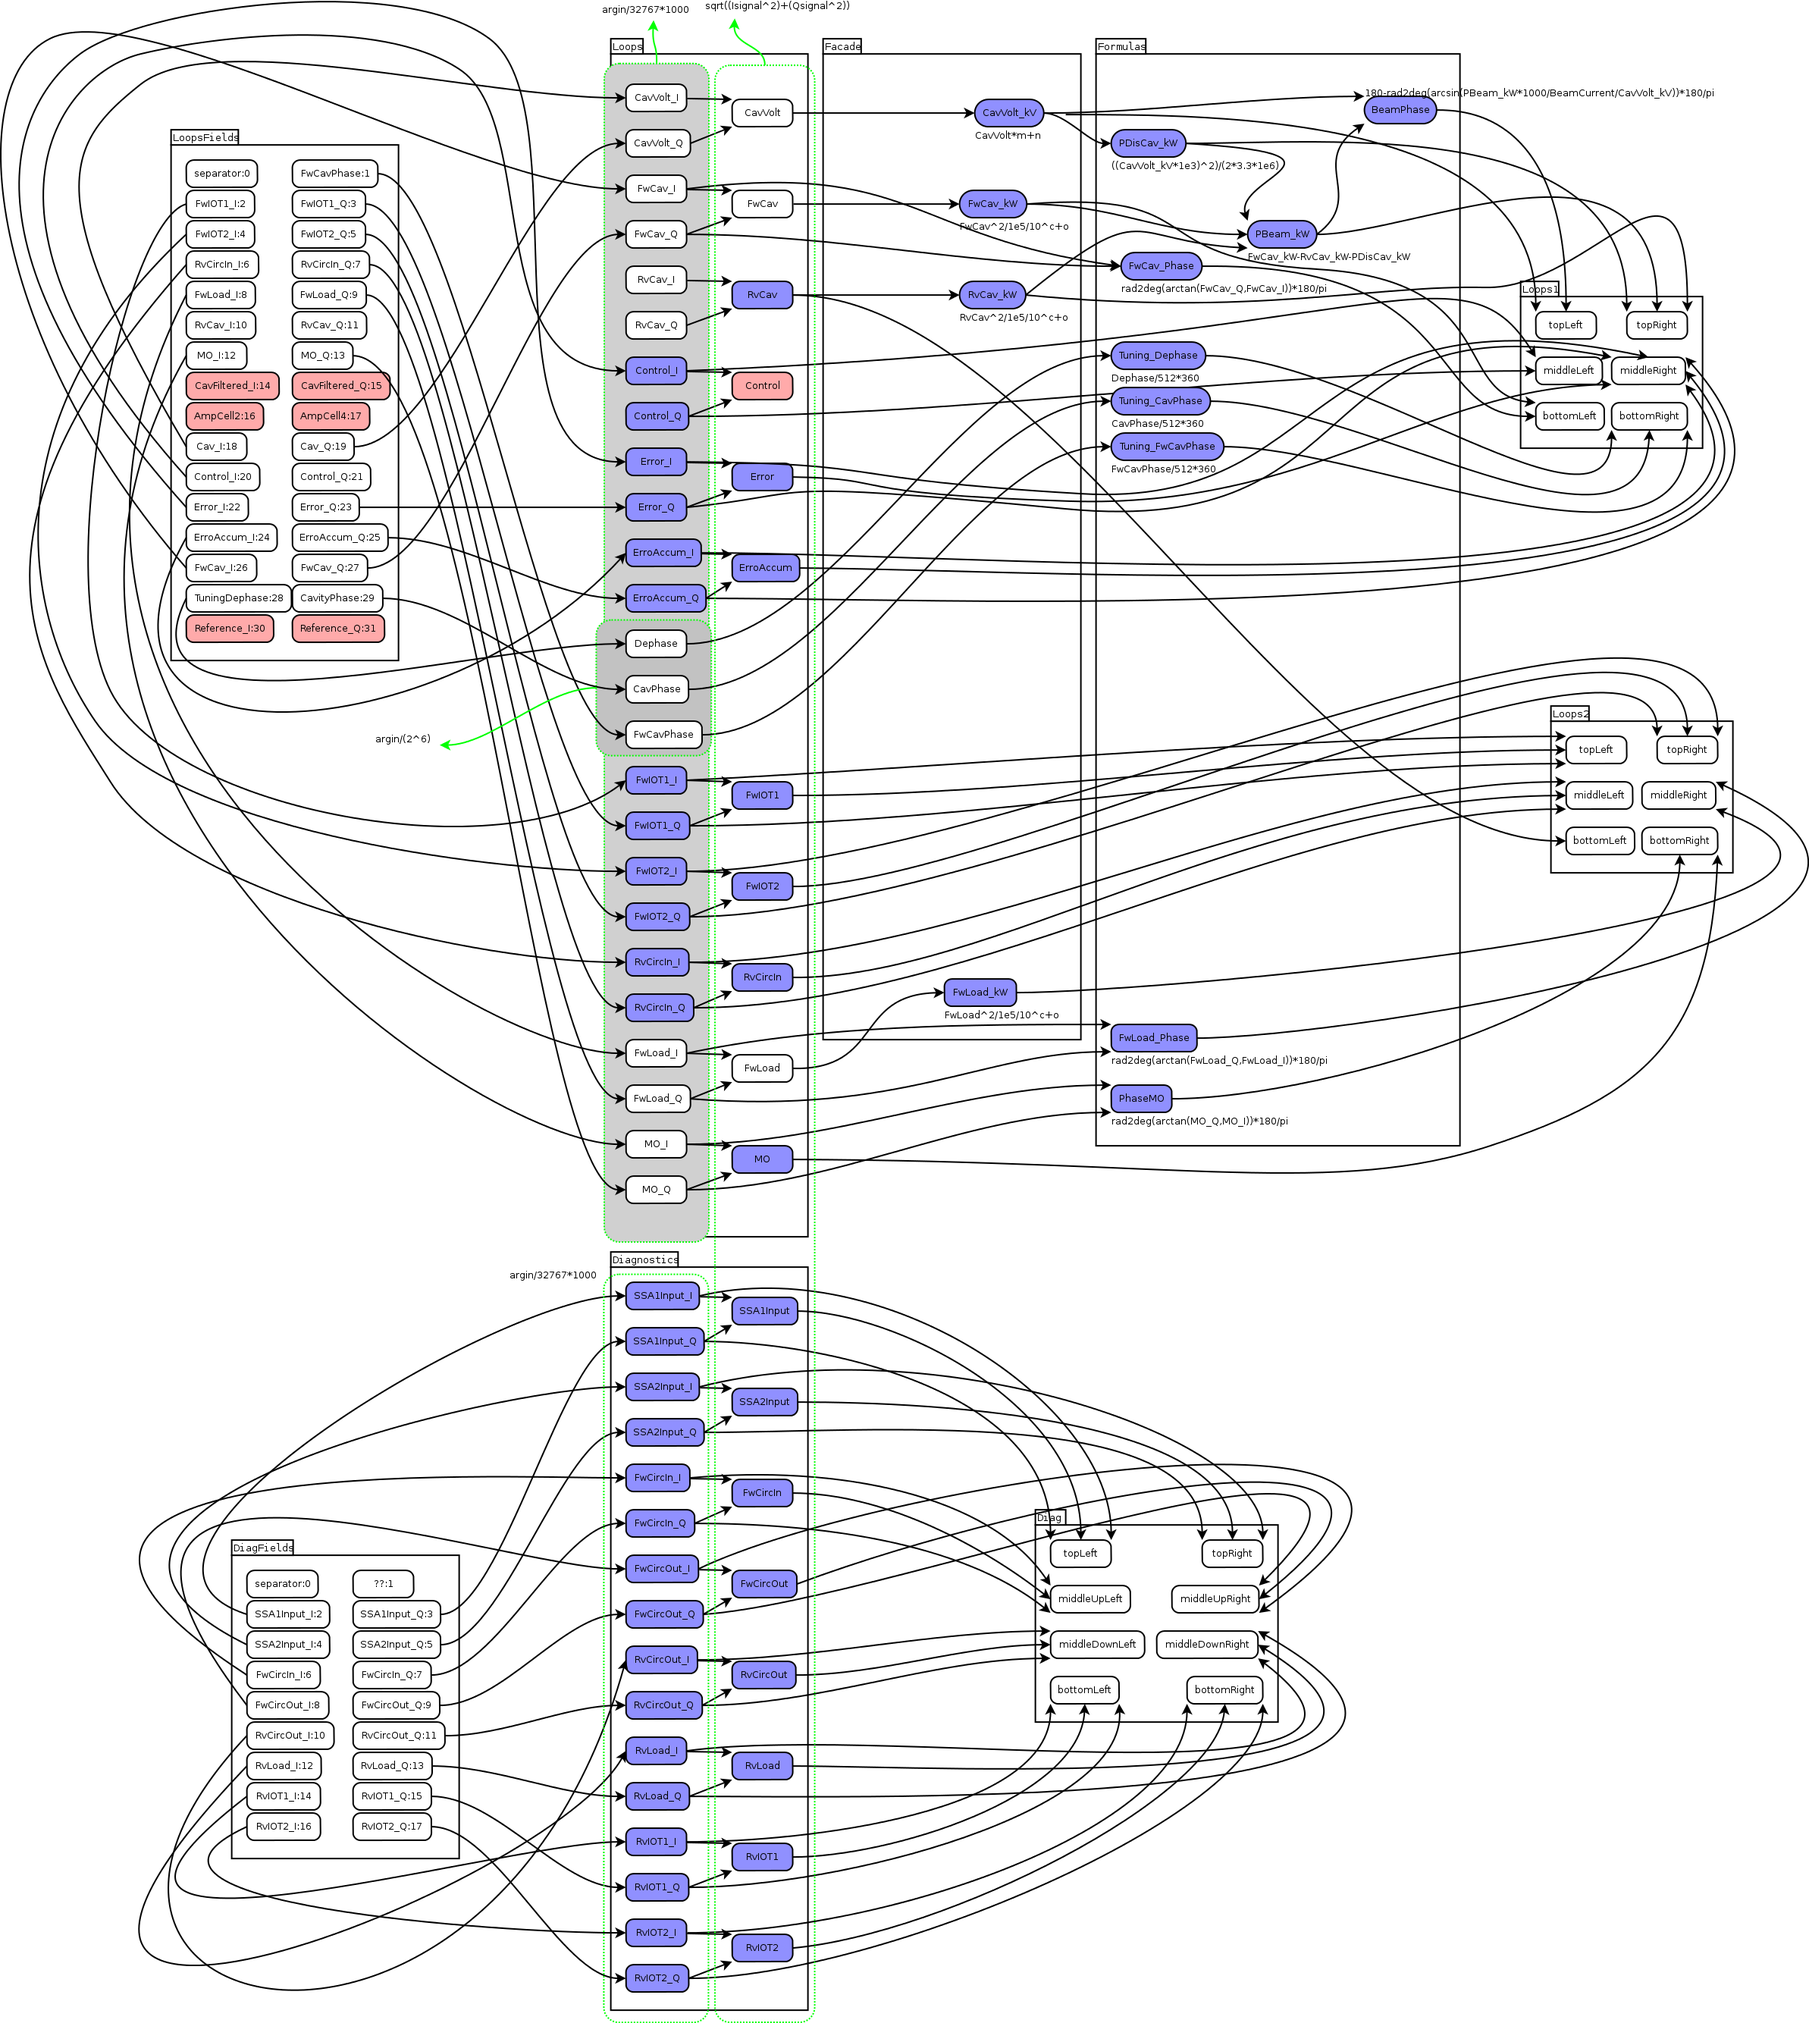
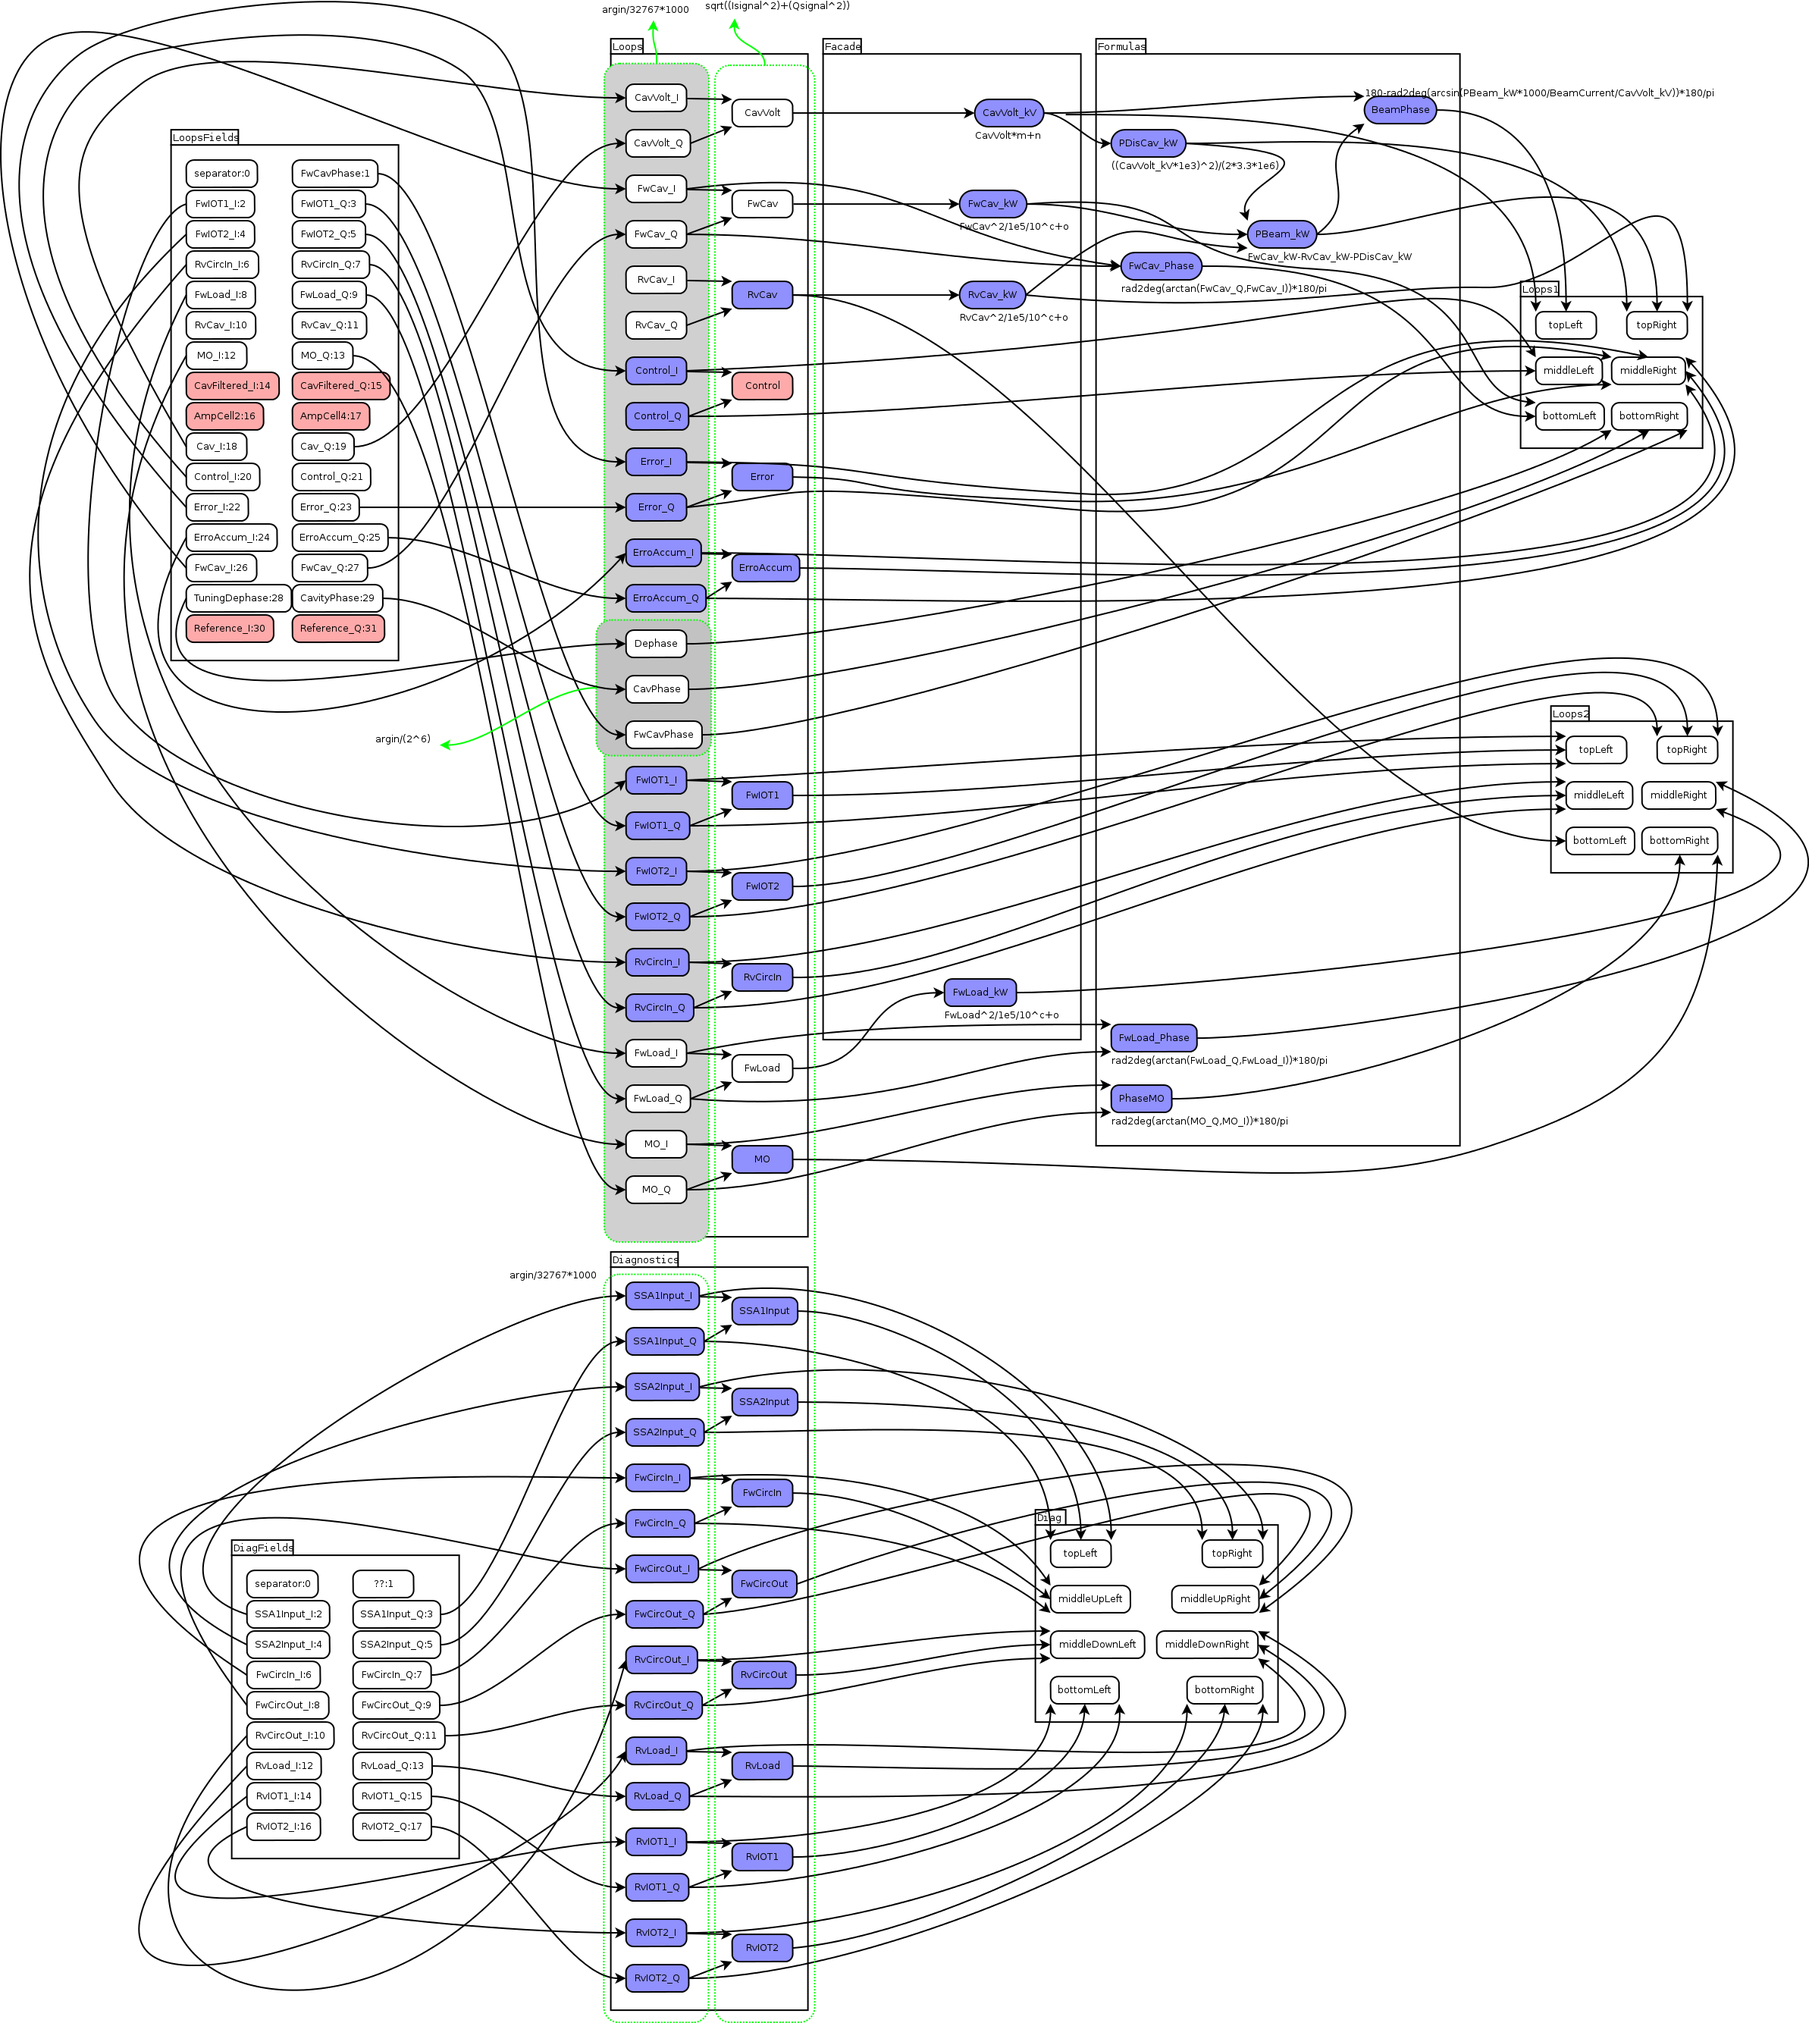
the 3 phase formulas, because the convertion to float is already made after parsing the file when process the signal set, are not necessary because we've being translating twice incorrectly.
git-svn-id: svn+ssh://controls01/siciliarep/svn/trunk/tango_client/ctrflyrtech_fdl/trunk@13397 a18efa20-c439-0410-bf20-9b91ec695b4c

diff --git a/src/FdlSignals.py b/src/FdlSignals.py
@@ -295,9 +295,9 @@ formulaSignal('MO_Phase','rad2deg(arctan(MO_Q,MO_I))',
 #  correct interpretation of the value in the processSignalSet() of the
 #  FdlFileParser class when reading signal sets from files.
 ## With this is made previously, the if is not required on the formulaSignal():
-formulaSignal('Tuning_Dephase','Dephase/512*360',['Dephase'])
-formulaSignal('Tuning_CavPhase','CavPhase/512*360',['CavPhase'])
-formulaSignal('Tuning_FwCavPhase','FwCavPhase/512*360',['FwCavPhase'])
+#formulaSignal('Tuning_Dephase','Dephase/512*360',['Dephase'])
+#formulaSignal('Tuning_CavPhase','CavPhase/512*360',['CavPhase'])
+#formulaSignal('Tuning_FwCavPhase','FwCavPhase/512*360',['FwCavPhase'])
 
 #--- Diag signals
 newSignal('SSA1Input_I','SSA1Input_I')
@@ -361,9 +361,9 @@ add2gui('ErroAccum_I',      Loops1,'middleRight', Y2_,'Yellow')
 add2gui('ErroAccum_Q',      Loops1,'middleRight', Y2_,'Cyan')
 add2gui('FwCav_kW',         Loops1,'bottomLeft',  Y1_,'Blue')
 add2gui('FwCav_Phase',      Loops1,'bottomLeft',  Y2_,'Cyan')
-add2gui('Tuning_Dephase',   Loops1,'bottomRight', Y1_,'Red')
-add2gui('Tuning_CavPhase',  Loops1,'bottomRight', Y1_,'Blue')
-add2gui('Tuning_FwCavPhase',Loops1,'bottomRight', Y1_,'Green')
+add2gui('Dephase',          Loops1,'bottomRight', Y1_,'Red')
+add2gui('CavPhase',         Loops1,'bottomRight', Y1_,'Blue')
+add2gui('FwCavPhase',       Loops1,'bottomRight', Y1_,'Green')
 ##Loops2
 add2gui('FwIOT1_I',         Loops2,'topLeft',     Y1_,'Red')
 add2gui('FwIOT1_Q',         Loops2,'topLeft',     Y1_,'Blue')
